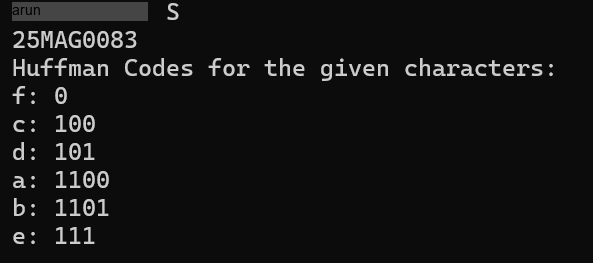
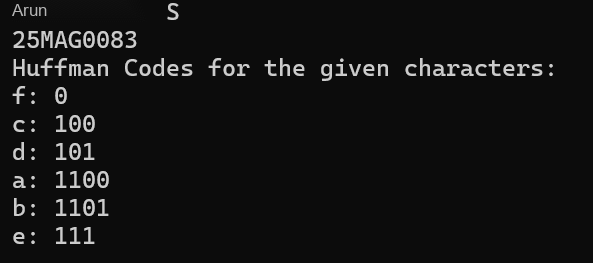
commit

Changed region(s): [[0.0, 0.0, 0.2732, 0.0913]]

diff --git a/iwr.py b/iwr.py
@@ -3,44 +3,94 @@ import pytesseract
 from PIL import Image, ImageDraw, ImageFont
 import numpy as np
 
-# Path to tesseract executable (if needed)
 pytesseract.pytesseract.tesseract_cmd = r"C:\Program Files\Tesseract-OCR\tesseract.exe"
 
 def get_text_boxes(image_path):
-    # Load image
     image = cv2.imread(image_path)
     gray = cv2.cvtColor(image, cv2.COLOR_BGR2GRAY)
-
-    # Detect text using pytesseract
     boxes = pytesseract.image_to_data(gray, output_type=pytesseract.Output.DICT)
     return image, boxes
 
-def replace_text(image_path, search_word, replace_word, output_path):
+def get_text_color_and_bold(roi):
+    gray = cv2.cvtColor(roi, cv2.COLOR_BGR2GRAY)
+    _, mask = cv2.threshold(gray, 0, 255, cv2.THRESH_BINARY + cv2.THRESH_OTSU)
+    if np.count_nonzero(mask) == 0:
+        text_color = (0,0,0)
+    else:
+        text_color = tuple(map(int, cv2.mean(roi, mask=mask)[:3]))
+   
+    density = np.count_nonzero(mask) / (mask.shape[0]*mask.shape[1])
+    is_bold = density > 0.5
+    return text_color, is_bold
+
+def find_phrase_positions(boxes, phrase):
+    words = phrase.split()
+    positions = []
+    i = 0
+    while i < len(boxes['text']):
+        match = True
+        for j, w in enumerate(words):
+            if i+j >= len(boxes['text']) or boxes['text'][i+j].strip() != w:
+                match = False
+                break
+        if match:
+            positions.append((i, i+len(words)-1))
+            i += len(words)
+        else:
+            i += 1
+    return positions
+
+def replace_phrase(image_path, search_phrase, replace_phrase, output_path):
     image, boxes = get_text_boxes(image_path)
-    pil_image = Image.fromarray(cv2.cvtColor(image, cv2.COLOR_BGR2RGB))
+    mask = np.zeros(image.shape[:2], dtype=np.uint8)
+    
+    positions = find_phrase_positions(boxes, search_phrase)
+    colors_bold = []
+
+    for start, end in positions:
+        x1 = boxes['left'][start]
+        y1 = boxes['top'][start]
+        x2 = boxes['left'][end] + boxes['width'][end]
+        y2 = boxes['top'][end] + boxes['height'][end]
+
+        h = y2 - y1
+        y1 = max(0, y1 - int(h*0.15))
+        y2 = min(image.shape[0], y2 + int(h*0.15))
+
+        roi = image[y1:y2, x1:x2]
+        color, is_bold = get_text_color_and_bold(roi)
+        colors_bold.append((color, is_bold))
+
+        mask[y1:y2, x1:x2] = 255
+
+    
+    inpainted = cv2.inpaint(image, mask, 3, cv2.INPAINT_TELEA)
+    pil_image = Image.fromarray(cv2.cvtColor(inpainted, cv2.COLOR_BGR2RGB))
     draw = ImageDraw.Draw(pil_image)
 
-    for i, word in enumerate(boxes['text']):
-        if word.strip() == search_word:
-            # Get bounding box
-            x, y, w, h = boxes['left'][i], boxes['top'][i], boxes['width'][i], boxes['height'][i]
+   
+    for idx, (start, end) in enumerate(positions):
+        x1 = boxes['left'][start]
+        y1 = boxes['top'][start]
+        x2 = boxes['left'][end] + boxes['width'][end]
+        y2 = boxes['top'][end] + boxes['height'][end]
 
-            # Sample background color from the box region
-            roi = image[y:y+h, x:x+w]
-            mean_color = tuple(map(int, cv2.mean(roi)[:3]))
+        h = y2 - y1
+        y1 = max(0, y1 - int(h*0.15))
+        y2 = min(image.shape[0], y2 + int(h*0.15))
+        font_size = int((y2 - y1) * 0.8)
 
-            # Cover the old text with background color
-            draw.rectangle([x, y, x+w, y+h], fill=mean_color)
-
-            # Approximate font size
-            font_size = int(h * 0.8)
+        try:
             font = ImageFont.truetype("arial.ttf", font_size)
+        except:
+            font = ImageFont.load_default()
 
-            # Write new text
-            draw.text((x, y), replace_word, fill=(0,0,0), font=font)  # default black text
+        color, is_bold = colors_bold[idx]
+
+        stroke = 1 if is_bold else 0
+        draw.text((x1, y1), replace_phrase, fill=color, font=font, stroke_width=stroke, stroke_fill=color)
 
     pil_image.save(output_path)
     print(f"Saved edited image as {output_path}")
 
-# Example usage
-replace_text("example.png", "Yashwanth.", "arun", "output.png")
+replace_phrase("example.png", "Yashwanth.", "Arun", "output.png")
